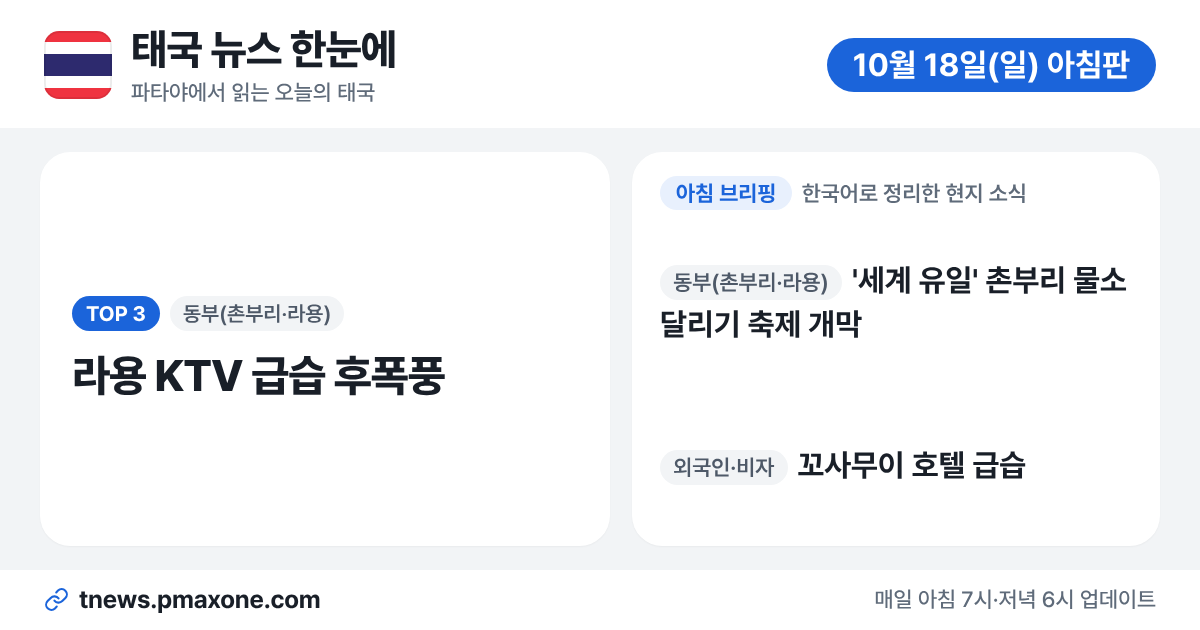
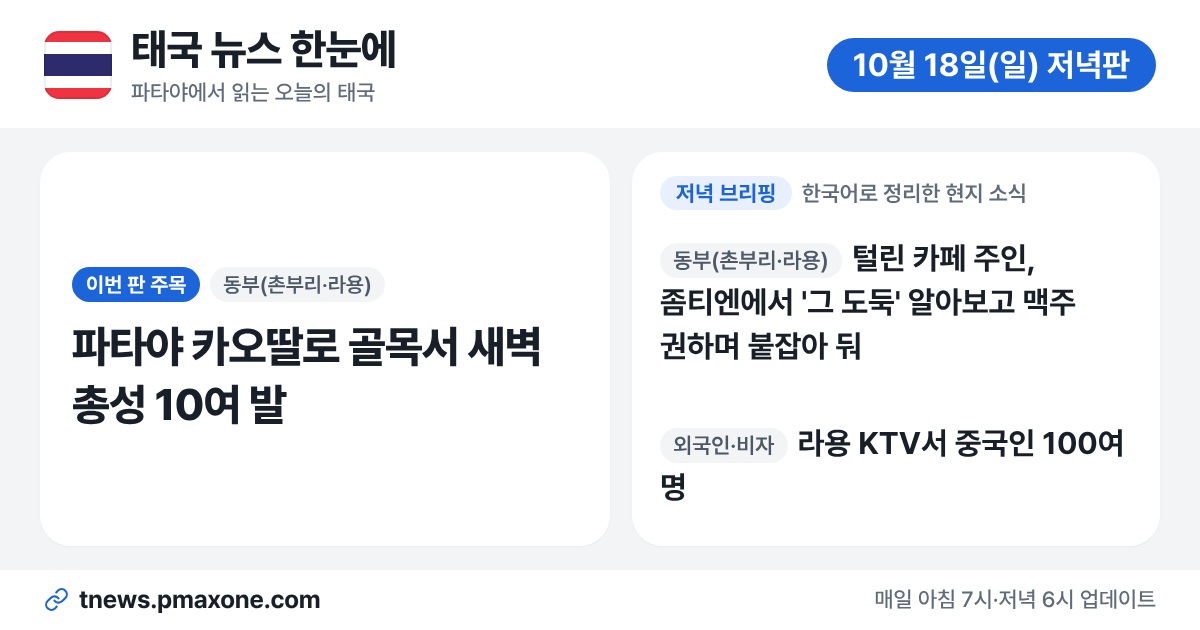
edition 2026-10-18-pm

diff --git a/e/2026-10-18-pm/index.html b/e/2026-10-18-pm/index.html
@@ -1,0 +1,65 @@
+<!doctype html>
+<html lang="ko">
+<head>
+<meta charset="utf-8">
+<meta name="viewport" content="width=device-width, initial-scale=1">
+<meta name="robots" content="index, follow, max-image-preview:large">
+<title>10월 18일(일) 태국 뉴스 저녁판 — 파타야 카오딸로 골목서 새벽 총성 10여 발 | 태국 뉴스 한눈에</title>
+<meta name="description" content="10월 18일(일) 저녁판, 태국 현지 뉴스 20건을 한국어로 정리했어요 (파타야·라용·수완나품 공항·방콕 소식). 파타야 카오딸로 골목서 새벽 총성 10여 발 · 털린 카페 주인, 좀티엔에서 &#x27;그 도둑&#x27; 알아보고 맥주 권하며 붙잡아 둬">
+<link rel="canonical" href="https://tnews.pmaxone.com/e/2026-10-18-pm/">
+<meta property="og:type" content="website">
+<meta property="og:site_name" content="태국 뉴스 한눈에">
+<meta property="og:locale" content="ko_KR">
+<meta property="og:title" content="10월 18일(일) 태국 뉴스 저녁판 — 파타야 카오딸로 골목서 새벽 총성 10여 발 | 태국 뉴스 한눈에">
+<meta property="og:description" content="10월 18일(일) 저녁판, 태국 현지 뉴스 20건을 한국어로 정리했어요 (파타야·라용·수완나품 공항·방콕 소식). 파타야 카오딸로 골목서 새벽 총성 10여 발 · 털린 카페 주인, 좀티엔에서 &#x27;그 도둑&#x27; 알아보고 맥주 권하며 붙잡아 둬">
+<meta property="og:url" content="https://tnews.pmaxone.com/e/2026-10-18-pm/">
+<meta property="og:image" content="https://tnews.pmaxone.com/og/2026-10-18-pm.png">
+<meta property="og:image:width" content="1200">
+<meta property="og:image:height" content="630">
+<meta property="og:image:alt" content="10월 18일(일) 태국 뉴스 저녁판 — 파타야 카오딸로 골목서 새벽 총성 10여 발 | 태국 뉴스 한눈에">
+<meta name="twitter:card" content="summary_large_image">
+<meta name="twitter:title" content="10월 18일(일) 태국 뉴스 저녁판 — 파타야 카오딸로 골목서 새벽 총성 10여 발 | 태국 뉴스 한눈에">
+<meta name="twitter:description" content="10월 18일(일) 저녁판, 태국 현지 뉴스 20건을 한국어로 정리했어요 (파타야·라용·수완나품 공항·방콕 소식). 파타야 카오딸로 골목서 새벽 총성 10여 발 · 털린 카페 주인, 좀티엔에서 &#x27;그 도둑&#x27; 알아보고 맥주 권하며 붙잡아 둬">
+<meta name="twitter:image" content="https://tnews.pmaxone.com/og/2026-10-18-pm.png">
+<script type="application/ld+json">{"@context":"https://schema.org","@type":"CollectionPage","@id":"https://tnews.pmaxone.com/e/2026-10-18-pm/","url":"https://tnews.pmaxone.com/e/2026-10-18-pm/","name":"10월 18일(일) 태국 뉴스 저녁판 — 파타야 카오딸로 골목서 새벽 총성 10여 발 | 태국 뉴스 한눈에","description":"10월 18일(일) 저녁판, 태국 현지 뉴스 20건을 한국어로 정리했어요 (파타야·라용·수완나품 공항·방콕 소식). 파타야 카오딸로 골목서 새벽 총성 10여 발 · 털린 카페 주인, 좀티엔에서 '그 도둑' 알아보고 맥주 권하며 붙잡아 둬","inLanguage":"ko","isPartOf":{"@type":"WebSite","@id":"https://tnews.pmaxone.com/#website","name":"태국 뉴스 한눈에","url":"https://tnews.pmaxone.com/"},"publisher":{"@type":"NewsMediaOrganization","@id":"https://tnews.pmaxone.com/#org","name":"태국 뉴스 한눈에","url":"https://tnews.pmaxone.com/"},"mainEntity":{"@type":"ItemList","numberOfItems":20,"itemListElement":[{"@type":"ListItem","position":1,"url":"https://tnews.pmaxone.com/e/2026-10-18-pm/#vi1","name":"라용 쁠르악댕 '노미니' 집중 점검…태국 상무부, 외국 자본 의심 회사 여러 곳·무허가 호텔 적발"},{"@type":"ListItem","position":2,"url":"https://tnews.pmaxone.com/e/2026-10-18-pm/#vi2","name":"라용 KTV서 중국인 100여 명…태국 이민국장 '체류·상납 의혹' 조사위 지시, 쁠르악댕 군수도 교체"},{"@type":"ListItem","position":3,"url":"https://tnews.pmaxone.com/e/2026-10-18-pm/#ea1","name":"파타야 카오딸로 골목서 새벽 총성 10여 발…오토바이 소음 시비가 친척·이웃 싸움으로"},{"@type":"ListItem","position":4,"url":"https://tnews.pmaxone.com/e/2026-10-18-pm/#ea2","name":"털린 카페 주인, 좀티엔에서 '그 도둑' 알아보고 맥주 권하며 붙잡아 둬…경찰 체포"},{"@type":"ListItem","position":5,"url":"https://tnews.pmaxone.com/e/2026-10-18-pm/#bk1","name":"'중국 연수' 사기에 공항서 발 묶인 학생 62명…학부모들 태국 경찰 중앙수사대에 고소"},{"@type":"ListItem","position":6,"url":"https://tnews.pmaxone.com/e/2026-10-18-pm/#bk2","name":"방콕 랏차다–람인트라 도로서 픽업트럭 전봇대 충돌…15명 다쳐 1명 중상"},{"@type":"ListItem","position":7,"url":"https://tnews.pmaxone.com/e/2026-10-18-pm/#bk3","name":"방콕 누안짠 노래방서 케타민 판매 단속…베트남인 13명·태국인 1명 체포"},{"@type":"ListItem","position":8,"url":"https://tnews.pmaxone.com/e/2026-10-18-pm/#lf1","name":"태국 홍수 지원금 예산 거의 바닥…재난청, 20일 내각에 추가 요청 / 차찻 방콕 시장 \"신청 마감 없다\""},{"@type":"ListItem","position":9,"url":"https://tnews.pmaxone.com/e/2026-10-18-pm/#wt1","name":"태국 기상청 4호 경보…20일까지 남부·동부, 21~25일 방콕·중부도 큰비 / 재난청 35개 도 주의"},{"@type":"ListItem","position":10,"url":"https://tnews.pmaxone.com/e/2026-10-18-pm/#st1","name":"끄라비 폭우에 폭포 관광객 대피·전봇대 쓰러져…팡아는 산사태로 재난지역 선포"},{"@type":"ListItem","position":11,"url":"https://tnews.pmaxone.com/e/2026-10-18-pm/#st2","name":"나라티왓서 해양경찰 간부 매복 총격에 숨져…범인 2명 권총·휴대폰 빼앗아 달아나"},{"@type":"ListItem","position":12,"url":"https://tnews.pmaxone.com/e/2026-10-18-pm/#no1","name":"도이인타논 아침 9도, 올해 첫 한 자릿수…치앙마이 성수기 관광객 1,250만 명 목표"},{"@type":"ListItem","position":13,"url":"https://tnews.pmaxone.com/e/2026-10-18-pm/#no2","name":"'투어 오브 타일랜드 2027' 자전거 대회, 미세먼지 피해 6~7월로 연기…치앙라이서 개최"},{"@type":"ListItem","position":14,"url":"https://tnews.pmaxone.com/e/2026-10-18-pm/#pe1","name":"태국 정부, 세계은행 차관 2억 달러 추진…방콕·산업단지 건물 태양광·에너지 효율에 투자"},{"@type":"ListItem","position":15,"url":"https://tnews.pmaxone.com/e/2026-10-18-pm/#pe2","name":"아누틴 태국 총리, 수판부리 침수 현장 찾아 \"짜이낫–빠삭–타이만 물길 사업 꼭 해야\""},{"@type":"ListItem","position":16,"url":"https://tnews.pmaxone.com/e/2026-10-18-pm/#so1","name":"'사이버 경찰' 사칭 보이스피싱에 대학생 120만바트(약 4,791만6,000원) 피해…현금 인출책 롭부리서 체포"},{"@type":"ListItem","position":17,"url":"https://tnews.pmaxone.com/e/2026-10-18-pm/#so2","name":"호주행 택배 음료 봉지에 헤로인 7kg…랏차부리선 야바 256만 정 압수"},{"@type":"ListItem","position":18,"url":"https://tnews.pmaxone.com/e/2026-10-18-pm/#tr1","name":"'쁠라 아이베리' 24번째 브랜드는 태국 가정식 '벤자민'…21일 통러 15골목에 첫 매장"},{"@type":"ListItem","position":19,"url":"https://tnews.pmaxone.com/e/2026-10-18-pm/#tr2","name":"푸껫 채식 축제 마지막 날 폭죽 속 신 행렬…19일 장대 철거로 마무리, 내년은 9월 30일~10월 8일"},{"@type":"ListItem","position":20,"url":"https://tnews.pmaxone.com/e/2026-10-18-pm/#en1","name":"촌부리 FC 5연패로 태국 리그1 꼴찌…임시 감독 위타야 \"강등까지는 안 간다\""}]},"datePublished":"2026-10-18T18:23:14+07:00"}</script>
+<meta name="theme-color" content="#ffffff">
+<link rel="icon" type="image/png" sizes="32x32" href="../../assets/icons/favicon-32.png">
+<!-- 판 전체 정적 페이지(tools/seo.py 가 생성, tools/share_kit.py 가 판마다 부름). 검색 수집기는 이 글을 읽고,
+     사람(브라우저)은 바로 앱 화면으로 이동. meta refresh 는 미리보기 수집기가 따라가 메인 태그를 읽을 수 있어 쓰지 않음(JS 이동 + 링크). -->
+<script>if(!/bot|crawl|spider|slurp|yeti|daum|bingpreview|mediapartners|facebookexternalhit|kakaotalk-scrap|lighthouse/i.test(navigator.userAgent||""))location.replace("../../?ed=2026-10-18-pm" + location.hash);</script>
+<style>body{margin:0;font-family:Pretendard,"Apple SD Gothic Neo","Noto Sans KR",sans-serif;background:#F2F4F6;color:#191F28;line-height:1.65;word-break:keep-all;overflow-wrap:anywhere}
+header{background:#fff;color:#191F28;padding:18px 20px;font-weight:800;font-size:20px;box-shadow:0 1px 0 rgba(0,0,0,.05)}header a{color:inherit;text-decoration:none}
+main{padding:20px;max-width:720px;margin:auto}h1{font-size:22px;margin:0 0 6px}article,.brief{background:#fff;border-radius:16px;padding:16px 18px;margin:12px 0}
+article h2,.brief h2{font-size:18px;margin:0 0 8px;line-height:1.4}.meta,.src{color:#5F6B7A;font-size:14px}.ctx{color:#4E5968;font-size:15px}
+a{color:#1B64DA}a.btn{display:inline-block;margin:10px 0;background:#1B64DA;color:#fff;font-weight:700;padding:12px 18px;border-radius:12px;text-decoration:none}
+li{margin:6px 0;color:#333D4B}footer{color:#5F6B7A;font-size:14px;padding:10px 20px 30px;max-width:720px;margin:auto}</style>
+<link rel="stylesheet" href="/assets/g-pages.css?v=1">
+</head>
+<body>
+<header><a href="../../">태국 뉴스 한눈에</a></header>
+<main><h1>10월 18일 저녁판 태국 뉴스</h1><a class="btn" href="../../?ed=2026-10-18-pm">이번 판 앱에서 열기 →</a>
+<section class="brief"><h2>브리핑</h2><ul><li>라용 KTV 중국인 100여 명…이민국 조사위 구성·쁠르악댕 군수 교체</li><li>기상청 4호 경보, 21~25일 방콕·중부도 큰비</li><li>홍수 지원금 예산 거의 바닥…20일 내각에 추가 요청, 방콕 신청은 마감 없음</li><li>라용 &#x27;노미니&#x27; 점검…외국 자본 의심 회사 여러 곳 적발</li><li>&#x27;중국 연수&#x27; 사기 피해 학생 측 중앙수사대 고소</li><li>끄라비 폭우에 폭포 관광객 대피, 팡아는 재난지역 선포</li></ul></section>
+<article id="vi1"><h2>🛂 라용 쁠르악댕 &#x27;노미니&#x27; 집중 점검…태국 상무부, 외국 자본 의심 회사 여러 곳·무허가 호텔 적발</h2><p class="meta"><span class="rg">라용(쁠르악댕)</span> </p><p>태국 상무부 사업개발국이 17일 노미니(차명 사업) 단속팀을 보내 내무부 차관, 지방행정국, 고용국과 함께 라용 쁠르악댕군의 호텔·아파트·유흥업소·관광업체·공장을 점검했다고 타이랏과 마티촌이 18일 전했다. 아침판에 전한 KTV 급습에 이어 이번에는 회사의 지분과 자금 구조를 들여다본 것이다.</p><p>같은 주소에 본사를 둔 회사 4곳 가운데 2곳은 투자청(BOI) 혜택과 외국인 사업 허가를 받은 외국 법인인데, 재무제표에는 허가 범위 밖인 전자부품 도매가 적혀 있었다. 나머지 2곳은 외국인 지분이 50% 미만이지만 공장 설비·건축자재·화학제품·기계 수출입과 매매를 해, 외국인사업법상 외국인에게 제한된 소매·도매업에 해당할 수 있다.</p><p>숙박·식음료업을 하는 다른 법인은 태국인 1명이 53%, 외국인 2명이 47%를 갖고 있었는데, 관리인이 자금은 외국인 돈이라고 인정했고 호텔 영업 허가도 없었다고 마티촌이 전했다. 사업개발국은 이들 회사에 투자 관련 서류를 내라고 명령했다. 명의를 빌려준 태국인은 최대 3년 징역이나 벌금 10만~100만바트(약 399만3,000~3,993만 원), 또는 둘 다를 받을 수 있고 외국인도 같은 처벌을 받는다.</p><p class="ctx">외국인은 태국에서 소매·도매를 비롯한 여러 업종을 직접 할 수 없어, 태국인 이름을 빌려 지분 51%를 채우는 &#x27;노미니&#x27; 구조가 쓰이곤 하지만 불법입니다. 서류상 태국인 지분이 많아도 실제 돈과 결정권이 외국인에게 있으면 단속 대상이 됩니다.</p><p class="src">출처: <a href="https://www.thairath.co.th/news/governmentpolicy/2966937" rel="nofollow noopener" target="_blank">타이랏 (Thairath)</a> · <a href="https://www.matichon.co.th/economy/news_5937687" rel="nofollow noopener" target="_blank">마티촌 (Matichon)</a> · <a href="https://www.thansettakij.com/economy/trade-agriculture/671709" rel="nofollow noopener" target="_blank">탄셋타낏 (Thansettakij)</a> · <a href="https://www.khaosod.co.th/economics/news_10441545" rel="nofollow noopener" target="_blank">카오솟 (Khaosod)</a> · <a href="../../?ed=2026-10-18-pm#vi1">앱에서 보기</a></p></article>
+<article id="vi2"><h2>🛂 라용 KTV서 중국인 100여 명…태국 이민국장 &#x27;체류·상납 의혹&#x27; 조사위 지시, 쁠르악댕 군수도 교체</h2><p class="meta"><span class="rg">라용(쁠르악댕)</span> </p><p>태국 이민국장이 17일 라용 유흥업소 4곳에서 중국인 100여 명이 발견된 사건과 관련해 3지구 이민국장에게 관계 기관과 조사위원회를 꾸리라고 지시했다고 싸얌랏이 전했다. 위원회는 이들의 입국 경위와 비자 상태를 확인하고, 업소 측이 공무원에게 돈을 줬다는 주장도 조사해 사실이면 징계와 형사 처벌을 하겠다고 했다.</p><p>1차 확인에서 적발된 외국인은 라오스 여성 3명, 미얀마 여성 6명, 무국적 여성 1명으로, 모두 노동허가 없이 일한 혐의다. 이민국은 수상한 외국인이나 공무원의 부당 행위를 24시간 핫라인 1178로 신고해 달라고 밝혔다.</p><p>라용 주지사는 쁠르악댕 군수를 17일 자로 라용도 지방행정사무소로 전보했다고 마티촌과 MGR온라인이 전했다. 4곳은 모두 허가 없이 영업하며 법정 시간을 넘겨 술을 판 것으로 조사됐다. 아침판에 전한 경찰서장 교체에 이어 행정 책임자도 자리를 옮긴 것이다.</p><p class="src">출처: <a href="https://siamrath.co.th/crime/329646" rel="nofollow noopener" target="_blank">싸얌랏 (Siam Rath)</a> · <a href="https://www.matichon.co.th/politics/news_5938018" rel="nofollow noopener" target="_blank">마티촌 (Matichon)</a> · <a href="https://mgronline.com/local/detail/9690000100718" rel="nofollow noopener" target="_blank">MGR온라인 (Manager Online)</a> · <a href="../../?ed=2026-10-18-pm#vi2">앱에서 보기</a></p></article>
+<article id="ea1"><h2>🏖 파타야 카오딸로 골목서 새벽 총성 10여 발…오토바이 소음 시비가 친척·이웃 싸움으로</h2><p class="meta"><span class="rg">파타야(카오딸로)</span> </p><p>18일 새벽 4시 36분 농쁘르 경찰이 카오딸로 9골목에서 총소리가 났다는 신고를 받고 출동해 9mm와 11mm 탄피 10여 개를 찾았다고 더파타야뉴스가 전했다.</p><p>오토바이 공회전 소음으로 시작된 다툼이 친척과 이웃 사이 싸움으로 번졌고, 그 과정에서 한 어머니가 머리채를 잡히고 뺨을 맞았다고 주민들은 말했다. 다친 사람은 없었고, 총을 쏜 사람들은 달아나 아직 붙잡히지 않았다. 경찰은 용의자를 쫓고 있다.</p><p class="src">출처: <a href="https://thepattayanews.com/2026/10/18/no-one-hurt-after-more-than-10-shots-fired-in-soi-khao-talo-family-dispute-in-pattaya/" rel="nofollow noopener" target="_blank">더파타야뉴스 (The Pattaya News)</a> · <a href="../../?ed=2026-10-18-pm#ea1">앱에서 보기</a></p></article>
+<article id="ea2"><h2>🏖 털린 카페 주인, 좀티엔에서 &#x27;그 도둑&#x27; 알아보고 맥주 권하며 붙잡아 둬…경찰 체포</h2><p class="meta"><span class="rg">파타야(좀티엔)</span> </p><p>27세 카페 주인 깐야낫 씨가 18일 새벽 3시 30분 좀티엔 해변의 한 술집에서 42세 남성을 알아봤다고 더파타야뉴스가 전했다. 그는 이 남성이 8월 1일 파타야 3번 도로에 있던 자신의 카페에 들어 4만바트(약 159만7,200원)이 넘는 물건을 훔쳐 간 사람이라고 봤고, 카페는 그 뒤 문을 닫았다.</p><p>그녀가 맥주를 권하며 이야기를 이어 가는 동안 직원이 경찰에 신고했고, 경찰이 도착해 남성을 체포했다. 남성에게는 절도 체포영장 1건이 나와 있었고, 휴대폰 33대와 현금 1만5,869바트(약 63만3,649원)을 털어 간 휴대폰 가게 절도와도 관련된 것으로 조사되고 있다.</p><p class="src">출처: <a href="https://thepattayanews.com/2026/10/18/coffee-shop-owner-spots-alleged-thief-at-jomtien-restaurant-keeps-him-talking-until-police-arrive/" rel="nofollow noopener" target="_blank">더파타야뉴스 (The Pattaya News)</a> · <a href="../../?ed=2026-10-18-pm#ea2">앱에서 보기</a></p></article>
+<article id="bk1"><h2>🏙 &#x27;중국 연수&#x27; 사기에 공항서 발 묶인 학생 62명…학부모들 태국 경찰 중앙수사대에 고소</h2><p class="meta"><span class="rg">수완나품 공항</span> </p><p>중국 단기 연수 사기로 지난 15일 수완나품 공항에서 발이 묶였던 학생들의 학부모와 교사 대표가 18일 태국 경찰 중앙수사대(CSD)에 고소했다고 방콕포스트와 데일리뉴스가 전했다. 11개 학교 학생 62명과 교사 8명이 15~26일 &#x27;LORD OBEC&#x27;이라는 이름의 연수에 가기로 했고, 목적지는 시안에서 베이징으로 바뀌었다. 1인당 3만9,900바트(약 159만3,207원)을 냈지만 공항에 가 보니 항공권이 없었다.</p><p>학부모들은 기초교육위원회(OBEC) 고위 공무원이라고 자처한 &#x27;닥터 뿐&#x27;과 &#x27;쿤 땀&#x27;을 지목했다. 학부모에게 연수를 권했던 교사 대표는 자기 계좌로 받은 돈은 모두 주최 측에 넘겼고 상부에도 보고했다며 조사에 협조하겠다고 했다.</p><p>기초교육위원회 사무총장은 이 연수가 위원회 사업이 아닌 개인 행위라며 진상조사위원회를 꾸리고 있고, 소속 공무원이 연루됐으면 징계와 형사 조치를 하겠다고 밝혔다. 주최 측은 일부 학교에 1만바트(약 39만9,300원)씩 돌려주기 시작했다. 피해 총액은 데일리뉴스는 200만바트(약 7,986만 원) 가까이, 방콕포스트는 약 270만바트(약 1억781만 원)으로 전했다.</p><p class="src">출처: <a href="https://www.bangkokpost.com/thailand/general/3339264/parents-take-failed-china-study-trip-case-to-csd" rel="nofollow noopener" target="_blank">방콕포스트 (Bangkok Post)</a> · <a href="https://www.dailynews.co.th/news/6284353/" rel="nofollow noopener" target="_blank">데일리뉴스 (Daily News)</a> · <a href="../../?ed=2026-10-18-pm#bk1">앱에서 보기</a></p></article>
+<article id="bk2"><h2>🏙 방콕 랏차다–람인트라 도로서 픽업트럭 전봇대 충돌…15명 다쳐 1명 중상</h2><p class="meta"><span class="rg">방콕(븡꿈)</span> </p><p>18일 오후 3시쯤 방콕 븡꿈구 랏차다–람인트라 도로 시내 방향, 나와민 도로와 만나는 교차로 부근에서 픽업트럭이 중심을 잃고 전봇대를 들이받았다고 FM91이 전했다.</p><p>이 사고로 모두 15명이 다쳤고 그중 1명은 중상이다. 구조대가 부상자를 병원으로 옮겼고, 사고 원인은 콕크람 경찰서가 조사하고 있다.</p><p class="src">출처: <a href="https://www.fm91bkk.com/newsarticle/80614" rel="nofollow noopener" target="_blank">FM91 교통방송 (FM91 BKK)</a> · <a href="../../?ed=2026-10-18-pm#bk2">앱에서 보기</a></p></article>
+<article id="bk3"><h2>🏙 방콕 누안짠 노래방서 케타민 판매 단속…베트남인 13명·태국인 1명 체포</h2><p class="meta"><span class="rg">방콕(븡꿈·누안짠)</span> </p><p>태국 마약단속국과 콕크람 경찰서가 17일 새벽 4시쯤 방콕 븡꿈구 누안짠의 한 노래방 겸 식당을 급습해 베트남인 13명과 태국인 여성 1명을 체포했다고 더타이거가 전했다. 직원들이 태국인과 외국인 손님에게 몰래 케타민을 판다는 제보가 있었다.</p><p>경찰은 12일 밤부터 업소를 지켜보다 13일 새벽 케타민 2g이 2,200바트(약 8만7,846원)에 팔리는 장면을 확인했지만, 판매자는 방 사이 통로로 달아났다. 15일 체포영장, 16일 수색영장을 받아 17일 단속에 나섰다.</p><p>영장이 나와 있던 39세 베트남 여성과 38세 베트남 남성은 케타민 공동 판매 혐의를, 베트남 남성 2명은 소지 혐의를 받는다. 나머지 10명(베트남인 9명, 태국인 1명)은 투약 혐의로 체포됐다. 수사 기간 압수한 케타민은 모두 6g이다.</p><p class="src">출처: <a href="https://thethaiger.com/news/bangkok/bangkok-karaoke-raid-13-vietnamese-one-thai" rel="nofollow noopener" target="_blank">더타이거 (The Thaiger)</a> · <a href="../../?ed=2026-10-18-pm#bk3">앱에서 보기</a></p></article>
+<article id="lf1"><h2>🛒 태국 홍수 지원금 예산 거의 바닥…재난청, 20일 내각에 추가 요청 / 차찻 방콕 시장 &quot;신청 마감 없다&quot;</h2><p>태국 재난예방청은 올해 홍수 지원 예산 52억8,165만바트(약 2,108억9,628만 원) 가운데 52억2,525만바트(약 2,086억4,423만 원)을 이미 써 6,640만바트(약 26억5,135만 원)만 남았다고 밝혔다고 탄셋타낏이 전했다. 20일 내각 회의에 105억800만바트(약 4,195억8,444만 원)을 더 요청해 148만1,401가구를 지원할 계획이며, 2027 회계연도 예비비를 쓴다.</p><p>더타이거에 따르면 지금까지 68만3,286가구가 지원금을 받았고, 가구당 9,000바트(약 35만9,370원) 또는 7,000바트(약 27만9,510원)이다. 대상은 5월 15일부터 9월 30일 사이 66개 도와 방콕의 홍수 피해 가구이며, 방콕에서는 24만8,643가구가 17억8,000만바트(약 710억7,540만 원)을 받았다.</p><p>차찻 방콕 시장은 일부 구에서 신청 접수가 늦어진 점을 인정하고 사과했다고 채널3가 전했다. 현장 접수 줄은 아침 7시쯤 시작하는데 새벽 4시부터 오는 사람이 있어 접수 창구를 늘리고 오전·오후로 나누는 방안을 검토한다. 신청 마감은 없고 &#x27;23일 마감&#x27;설은 사실이 아니라고 했다. 등록자는 100만 명이 넘었고, 정부 앱 &#x27;땅랏&#x27;으로는 서류를 낼 수 없다.</p><p class="src">출처: <a href="https://www.thansettakij.com/economy/671710" rel="nofollow noopener" target="_blank">탄셋타낏 (Thansettakij)</a> · <a href="https://thethaiger.com/news/national/thailand-pays-5-2-billion-baht-in-flood-relief-seeks-10-5-billion-baht-more" rel="nofollow noopener" target="_blank">더타이거 (The Thaiger)</a> · <a href="https://ch3plus.com/news/political/morning/472817" rel="nofollow noopener" target="_blank">채널3 (Ch3 Plus)</a> · <a href="../../?ed=2026-10-18-pm#lf1">앱에서 보기</a></p></article>
+<article id="wt1"><h2>🌦 태국 기상청 4호 경보…20일까지 남부·동부, 21~25일 방콕·중부도 큰비 / 재난청 35개 도 주의</h2><p>태국 기상청이 18일 오후 5시 4호 경보를 내고 18~20일 남부와 동부, 21~25일 동북부 남쪽·중부(방콕 포함)·동부·남부 위쪽에 곳곳 매우 많은 비가 오겠다고 밝혔다고 탄셋타낏과 PPTV가 전했다. 기간과 지역은 아침 3호 경보와 같고, 안다만해와 타이만은 뇌우 때 파도가 3m를 넘을 수 있다. 다음 발표는 19일 오전 5시다.</p><p>태국 재난예방청은 18~25일 35개 도와 방콕에 급류·산사태 주의를 보냈고, 위험해지면 동굴·폭포 관광지를 닫을 수 있다고 밝혔다고 더네이션이 전했다.</p><p>재난청 집계(18일 오전)로는 21개 도와 방콕 일부가 아직 물에 잠겨 71만5,756가구, 약 218만 명이 피해를 입고 있지만 수위는 계속 내려가고 있다. 재난청이 9월 16일부터 센 사망자는 80명(쁘라친부리 26명, 방콕 4명 등)이고, 방콕은 랏끄라방·농촉·민부리에서 21만648가구가 영향을 받고 있다고 방콕포스트가 전했다.</p><p class="src">출처: <a href="https://www.thansettakij.com/general-news/671720" rel="nofollow noopener" target="_blank">탄셋타낏 (Thansettakij)</a> · <a href="https://www.pptvhd36.com/news/%E0%B8%AA%E0%B8%B1%E0%B8%87%E0%B8%84%E0%B8%A1/285397" rel="nofollow noopener" target="_blank">PPTV</a> · <a href="https://www.nationthailand.com/news/general/40072447" rel="nofollow noopener" target="_blank">더네이션 (The Nation)</a> · <a href="https://www.bangkokpost.com/thailand/general/3339258/flooding-persists-in-bangkok-21-provinces-death-toll-80" rel="nofollow noopener" target="_blank">방콕포스트 (Bangkok Post)</a> · <a href="../../?ed=2026-10-18-pm#wt1">앱에서 보기</a></p></article>
+<article id="st1"><h2>🏝 끄라비 폭우에 폭포 관광객 대피·전봇대 쓰러져…팡아는 산사태로 재난지역 선포</h2><p class="meta"><span class="rg">끄라비·팡아</span> </p><p>18일 끄라비에 폭우가 쏟아져 오후 4시 후아이토 폭포의 물이 갑자기 불어나 흙탕물로 변하자 관광객들에게 즉시 떠나라는 지시가 내려졌다고 카오솟 잉글리시가 전했다. 클롱야이 주변 주민들에게도 물이 불어날 수 있다는 경고가 나왔다. 느아클롱군 후아이용 도로에는 전봇대 3~4개가 쓰러져 길을 막았고, 끄라비 시내 곳곳도 물에 잠겼다.</p><p>끄라비 주지사는 25일까지 급류·산사태·높은 파도에 대비하라고 지시했다. 바다가 거칠 때는 해수욕을 하지 말고 보트 운항은 특히 조심하며, 폭포와 동굴은 위험해지면 바로 닫도록 했다.</p><p>팡아에서는 타이므앙군 람피의 타까다이 산에서 흙이 쏟아져 타이므앙–까뽕 도로(23km 지점)를 덮었다고 싸얌랏이 전했다. 도로 당국이 중장비로 흙과 돌을 치우고 있고, 일대가 재난지역으로 선포됐으며 추가 산사태 감시가 이어진다.</p><p class="src">출처: <a href="https://www.khaosodenglish.com/featured/2026/10/18/heavy-rain-triggers-flood-warnings-in-krabi-as-power-poles-fall/" rel="nofollow noopener" target="_blank">카오솟 잉글리시 (Khaosod English)</a> · <a href="https://siamrath.co.th/regional/329689" rel="nofollow noopener" target="_blank">싸얌랏 (Siam Rath)</a> · <a href="../../?ed=2026-10-18-pm#st1">앱에서 보기</a></p></article>
+<article id="st2"><h2>🏝 나라티왓서 해양경찰 간부 매복 총격에 숨져…범인 2명 권총·휴대폰 빼앗아 달아나</h2><p class="meta"><span class="rg">나라티왓(르쏘)</span> </p><p>17일 밤 11시 55분쯤 나라티왓 르쏘군 사오워 지역 4060번 도로에서 해양경찰 간부 우사만 니마유(58) 씨가 오토바이를 타고 집에 가다 범인 2명의 총격을 받고 숨졌다고 카오솟 잉글리시와 네이션TV가 전했다.</p><p>범인들은 고무농장 옆 덤불에 숨어 있다가 M16 계열 소총으로 4발을 쏜 뒤, 쓰러진 그의 9mm 권총과 휴대폰을 빼앗아 농장 쪽으로 달아났다. 그는 400m 떨어진 친척 집에서 할례 의식 준비를 돕고 돌아가던 길이었다.</p><p>경찰은 18일 아침 현장에서 5.56mm 탄피 4개와 핏자국, 범인들이 숨어 있던 흔적을 찾았고, 용의자를 쫓으며 빼앗긴 총과 휴대폰을 찾고 있다.</p><p class="src">출처: <a href="https://www.khaosodenglish.com/featured/2026/10/18/gunmen-ambush-marine-police-officer-in-narathiwat-steal-gun/" rel="nofollow noopener" target="_blank">카오솟 잉글리시 (Khaosod English)</a> · <a href="https://www.nationtv.tv/news/current-issue/378984977" rel="nofollow noopener" target="_blank">네이션TV (Nation TV)</a> · <a href="../../?ed=2026-10-18-pm#st2">앱에서 보기</a></p></article>
+<article id="no1"><h2>⛰ 도이인타논 아침 9도, 올해 첫 한 자릿수…치앙마이 성수기 관광객 1,250만 명 목표</h2><p class="meta"><span class="rg">치앙마이(도이인타논)</span> </p><p>18일 아침 치앙마이 도이인타논 정상 기온이 9도로 내려가 올해 처음 한 자릿수를 기록했다고 타이랏과 치앙마이시티라이프가 전했다. 정상과 끼우매빤 전망대에는 일출을 보려는 사람들이 몰렸다. 도이앙캉과 팡군 도이파홈뽁도 17도까지 내려갔다.</p><p>치앙마이도 관광체육국장은 이번 성수기 관광 수입 1,200억바트(약 4조7,916억 원) 이상, 태국인과 외국인을 합쳐 약 1,250만 명 방문을 목표로 기반시설·교통, 안전·서비스, 환경, 마케팅 4가지 대책을 추진한다고 밝혔다.</p><p>님만해민, 구시가지, 수텝, 도이인타논 국립공원에는 교통 지휘센터를 두고 전기버스 등 대중교통을 늘린다. 공항·기차역·타패 문에는 관광객 지원센터(TAC)를 세우고 CCTV를 연결하며 경찰 순찰도 강화한다.</p><p class="src">출처: <a href="https://www.thairath.co.th/news/local/north/2966880" rel="nofollow noopener" target="_blank">타이랏 (Thairath)</a> · <a href="https://www.chiangmaicitylife.com/citynews/general/doi-inthanon-drops-to-9c-and-chiang-mai-is-already-counting-12-5-million-visitors/" rel="nofollow noopener" target="_blank">치앙마이시티라이프 (Chiang Mai Citylife)</a> · <a href="../../?ed=2026-10-18-pm#no1">앱에서 보기</a></p></article>
+<article id="no2"><h2>⛰ &#x27;투어 오브 타일랜드 2027&#x27; 자전거 대회, 미세먼지 피해 6~7월로 연기…치앙라이서 개최</h2><p class="meta"><span class="rg">치앙라이</span> </p><p>태국 자전거협회와 치앙라이도가 국제 도로 사이클 대회 &#x27;투어 오브 타일랜드 2027&#x27;을 2027년 3월 24일~4월 2일에서 6월 28일~7월 7일로 미뤘다고 카오솟이 전했다.</p><p>치앙라이 지사와 관계 기관 회의에서 원래 일정이 북부의 산불·연무와 초미세먼지(PM2.5)가 가장 심한 때와 겹쳐 선수 건강을 해칠 수 있다는 의견이 모였다. 북부는 해마다 2~5월에 연무가 심하다.</p><p>협회는 바뀐 일정을 국제사이클연맹(UCI)과 태국체육청에 알렸다. 남자부는 6개 구간으로 치러진다.</p><p class="src">출처: <a href="https://www.khaosod.co.th/sports/news_10441671" rel="nofollow noopener" target="_blank">카오솟 (Khaosod)</a> · <a href="../../?ed=2026-10-18-pm#no2">앱에서 보기</a></p></article>
+<article id="pe1"><h2>🏛 태국 정부, 세계은행 차관 2억 달러 추진…방콕·산업단지 건물 태양광·에너지 효율에 투자</h2><p>태국 총리실 부대변인은 에크니띠 부총리 겸 재무장관이 IMF·세계은행 연차총회 기간에 아자이 방가 세계은행 총재와 저탄소 도시와 에너지 안보를 논의했고, 세계은행 차관 2억 달러를 태국수출입은행을 거쳐 공공건물과 산업지역의 에너지 효율 사업에 쓰기로 했다고 밝혔다고 탄셋타낏이 전했다.</p><p>에너지 서비스 회사(ESCO)가 먼저 돈을 들여 설비를 고치고, 참여 기관이 오랜 기간에 나눠 갚는 방식이다. 방콕과 태국산업단지공단 지역에서 지붕 태양광 설치와 전기 설비 개선을 먼저 시범으로 한다.</p><p>천연자원환경부는 끄룽타이은행과 태국의 &#x27;공정 전환 로드맵&#x27;을 만드는 협약을 맺었고, PTT·끄룽타이은행과는 라용의 저탄소 산업을 대상으로 탄소배출권 시범 사업을 추진한다.</p><p class="src">출처: <a href="https://www.thansettakij.com/economy/671694" rel="nofollow noopener" target="_blank">탄셋타낏 (Thansettakij)</a> · <a href="https://thethaiger.com/news/national/thailand-pursues-us200-million-world-bank-loan-clean-energy" rel="nofollow noopener" target="_blank">더타이거 (The Thaiger)</a> · <a href="../../?ed=2026-10-18-pm#pe1">앱에서 보기</a></p></article>
+<article id="pe2"><h2>🏛 아누틴 태국 총리, 수판부리 침수 현장 찾아 &quot;짜이낫–빠삭–타이만 물길 사업 꼭 해야&quot;</h2><p class="meta"><span class="rg">수판부리(송피넝)</span> </p><p>아누틴 태국 총리 겸 내무장관이 18일 오후 3시 30분 수판부리 송피넝군 수문을 찾아 물 관리 상황을 점검했다고 카오솟이 전했다. 산업장관, 내무차관, 재난예방청장, 왕립관개청장, 수판부리 지사가 함께했다.</p><p>아누틴 총리는 물이 아직 많아 타찐강으로 빼고 있지만 부레옥잠과 떠내려온 수초가 물길을 막아 효율이 떨어진다고 말했다. 송피넝 수문은 3개뿐이라 관개청장이 수문과 배수로를 넓히기로 했다고 밝혔다.</p><p>그는 &#x27;짜이낫–빠삭–타이만&#x27; 물길 사업이 꼭 이뤄져야 한다며, 큰 사업을 두고 낭비라는 말이 있지만 해마다 물을 퍼내는 데 드는 전기·기름 비용이 더 큰 낭비라고 했다. 같은 자리에서 재난예방청장은 홍수 지원금 예산을 잘못 계산했다는 지적을 부인했다.</p><p class="src">출처: <a href="https://www.khaosod.co.th/politics/news_10441828" rel="nofollow noopener" target="_blank">카오솟 (Khaosod)</a> · <a href="../../?ed=2026-10-18-pm#pe2">앱에서 보기</a></p></article>
+<article id="so1"><h2>🚨 &#x27;사이버 경찰&#x27; 사칭 보이스피싱에 대학생 120만바트(약 4,791만6,000원) 피해…현금 인출책 롭부리서 체포</h2><p class="meta"><span class="rg">부리람·롭부리</span> </p><p>부리람 사뚝군의 22세 대학생이 사이버 경찰을 사칭한 보이스피싱 조직에 속아 현금과 재산 120만바트(약 4,791만6,000원)어치를 잃었다고 데일리뉴스가 전했다. 범인들은 라인으로 서류를 보내 불법 행위에 연루됐다며 결백을 증명하려면 돈을 보내라고 협박했다.</p><p>범인들은 영상통화로 집 안의 재산을 비추게 했고, 피해자는 부모의 금목걸이와 시계까지 몰래 넘겼다. 피해자는 10월 10일 방콕 찰롱끄룽 경찰서에 신고했다.</p><p>경찰은 돈의 흐름을 따라 현금 인출을 맡은 35세 남성을 롭부리의 한 호텔에서 체포하고 휴대폰 6대와 다른 사람 명의 ATM 카드 5장을 압수했다. 그는 여러 차례 인출을 맡았다고 인정했고, 경찰은 지금까지 7만바트(약 279만5,100원)을 동결했다.</p><p class="src">출처: <a href="https://www.dailynews.co.th/news/6284304/" rel="nofollow noopener" target="_blank">데일리뉴스 (Daily News)</a> · <a href="https://siamrath.co.th/regional/329667" rel="nofollow noopener" target="_blank">싸얌랏 (Siam Rath)</a> · <a href="../../?ed=2026-10-18-pm#so1">앱에서 보기</a></p></article>
+<article id="so2"><h2>🚨 호주행 택배 음료 봉지에 헤로인 7kg…랏차부리선 야바 256만 정 압수</h2><p class="meta"><span class="rg">사뭇쁘라깐·랏차부리</span> </p><p>태국 경찰이 사뭇쁘라깐의 한 민간 택배 물류센터에서 호주로 가는 상자 2개를 열어 인스턴트 음료 봉지에 숨긴 헤로인 약 7kg을 찾아냈다고 더타이거가 18일 전했다. 봉지가 이상하게 딱딱해 열어 보니 은박지에 싼 흰 가루가 나왔다.</p><p>상자에는 태국 내 보낸 사람과 호주 받는 사람 정보가 적혀 있었다. 아직 체포된 사람은 없고, 경찰은 보낸 사람과 관련자를 찾고 있다.</p><p>따로 진행된 단속에서는 랏차부리 반퐁군에서 태국인 2명을 붙잡고 야바(필로폰 알약) 256만6,000정과 총기·탄약을 압수했다. 이들은 아유타야·앙통·수판부리에서 마약을 모아 남부로 옮기던 것으로 경찰은 보고 있으며, 압수품 가치는 약 536만700바트(약 2억1,405만 원)이다.</p><p class="src">출처: <a href="https://thethaiger.com/hot-news/crime/thailand-intercepts-heroin-drink-sachets-australia" rel="nofollow noopener" target="_blank">더타이거 (The Thaiger)</a> · <a href="../../?ed=2026-10-18-pm#so2">앱에서 보기</a></p></article>
+<article id="tr1"><h2>🍜 &#x27;쁠라 아이베리&#x27; 24번째 브랜드는 태국 가정식 &#x27;벤자민&#x27;…21일 통러 15골목에 첫 매장</h2><p class="meta"><span class="rg">방콕(통러)</span> </p><p>디저트 브랜드 아이베리로 알려진 쁠라(앗차라 부라락) 씨가 그룹의 24번째 브랜드로 태국 요리점 &#x27;벤자민(BENJAMIN)&#x27;을 연다고 방콕비즈뉴스가 전했다. 레스토랑 &#x27;Seasoning 36&#x27;의 오너 셰프 벤 씨와 손잡았다.</p><p>셰프의 할머니 손맛에서 출발해 흔히 보기 어려운 태국 가정 요리를 내놓는다. 5시간 넘게 끓인 돼지갈비 똠켐, 설탕 없이 신맛을 앞세운 그루퍼 똠얌, 세 가지 고추로 만든 커리 페이스트에 소고기 정강이살을 넣은 그린커리 등이 대표 메뉴다.</p><p>첫 매장은 통러 15골목 &#x27;마켓플레이스 통러&#x27;에 21일 문을 연다. 다음 매장 계획은 아직 공개하지 않았다.</p><p class="src">출처: <a href="https://www.bangkokbiznews.com/business/1256833" rel="nofollow noopener" target="_blank">방콕비즈뉴스 (Bangkokbiznews)</a> · <a href="../../?ed=2026-10-18-pm#tr1">앱에서 보기</a></p></article>
+<article id="tr2"><h2>🍜 푸껫 채식 축제 마지막 날 폭죽 속 신 행렬…19일 장대 철거로 마무리, 내년은 9월 30일~10월 8일</h2><p class="meta"><span class="rg">푸껫 타운</span> </p><p>푸껫 채식 축제 마지막 날인 18일 로롱 사당이 전통 거리 행렬을 열었다고 카오솟 잉글리시가 전했다. 영매들이 뺨에 쇠꼬챙이·칼 등을 꽂은 채 행진했고, 길가 제단마다 폭죽이 터졌다. 행렬은 푸껫 타운을 지나 사판힌 곶까지 이어졌다.</p><p>18일 밤 10시쯤부터 각 사당이 아홉 신을 하늘로 돌려보내는 의식을 열고, 주요 모임 장소는 사판힌 해변이다. 19일 오후 4시부터 사당 앞 장대를 내리는 의식으로 올해 축제(10~18일)가 공식적으로 끝난다.</p><p>2027년 푸껫 채식 축제는 9월 30일부터 10월 8일까지 열릴 예정이다.</p><p class="src">출처: <a href="https://www.khaosodenglish.com/life/2026/10/18/phuket-vegetarian-festival-ends-with-firecracker-filled-deity-procession/" rel="nofollow noopener" target="_blank">카오솟 잉글리시 (Khaosod English)</a> · <a href="../../?ed=2026-10-18-pm#tr2">앱에서 보기</a></p></article>
+<article id="en1"><h2>💬 촌부리 FC 5연패로 태국 리그1 꼴찌…임시 감독 위타야 &quot;강등까지는 안 간다&quot;</h2><p class="meta"><span class="rg">촌부리</span> </p><p>촌부리 FC가 PT 쁘라쭈압을 상대로 먼저 골을 넣고도 1-2로 져 5연패를 당하며 2026/27 태국 리그1 최하위에 머물렀다고 카오솟이 전했다.</p><p>랑산 감독과 결별한 뒤 임시로 팀을 맡은 위타야 라오하꾼 기술개발위원장은 &quot;훈련을 3일밖에 못 했다. 기회는 더 많이 만들었지만 마무리가 필요하다&quot;며 &quot;이번 패배는 불운이 아니라 집중력과 경기 운영의 문제&quot;라고 말했다. 다음 상대는 랏차부리다.</p><p>그는 장기간 팀을 맡을 생각은 없다며 구단이 일본·독일·브라질 등 외국인 감독을 찾을 것으로 본다고 했다. 또 지금 선수들의 실력이면 강등까지는 가지 않을 것이라고 말했다.</p><p class="src">출처: <a href="https://www.khaosod.co.th/sports/news_10441391" rel="nofollow noopener" target="_blank">카오솟 (Khaosod)</a> · <a href="https://www.thairath.co.th/sport/thaifootball/thaipremierleague/2966868" rel="nofollow noopener" target="_blank">타이랏 (Thairath)</a> · <a href="../../?ed=2026-10-18-pm#en1">앱에서 보기</a></p></article>
+<a class="btn" href="../../?ed=2026-10-18-pm">이번 판 앱에서 열기 →</a></main>
+<footer><a href="../../">최신 뉴스</a> · <a href="../../about.html">소개</a> · <a href="../../contact.html">연락하기</a> · <a href="../../privacy.html">개인정보 처리방침</a> · <a href="../../terms.html">이용약관</a></footer>
+</body>
+</html>
